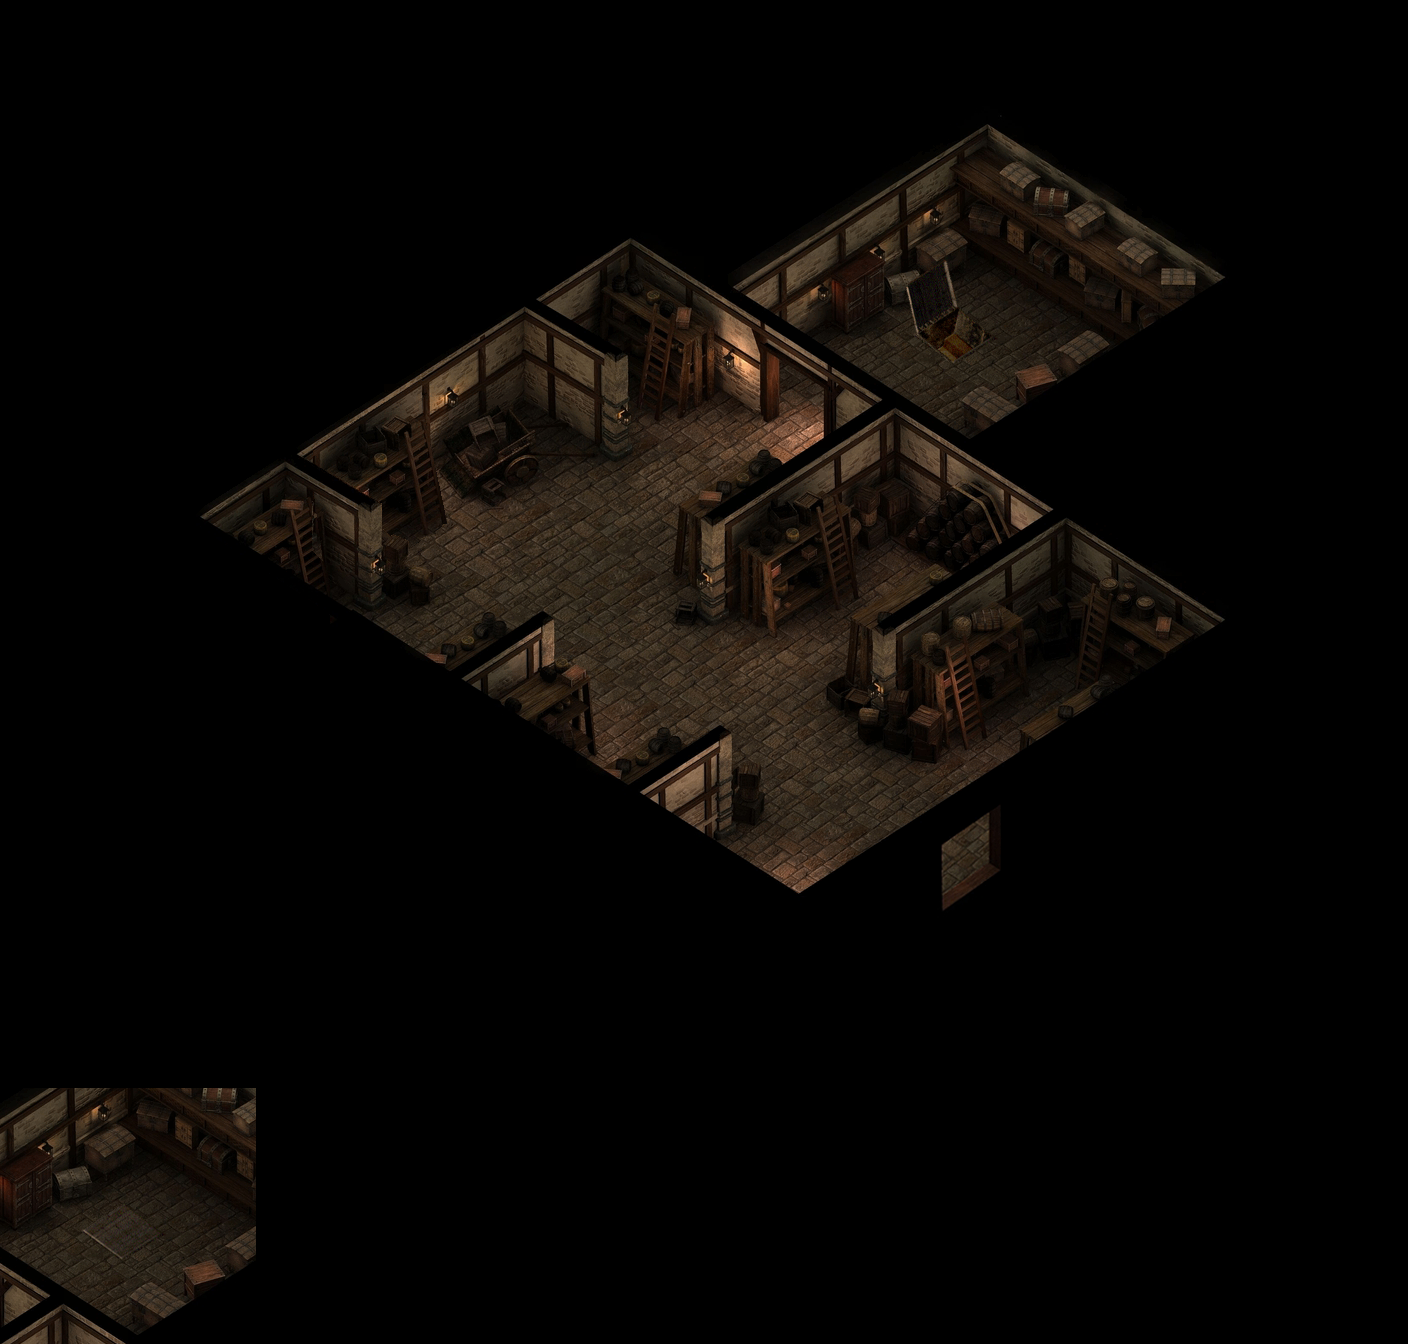
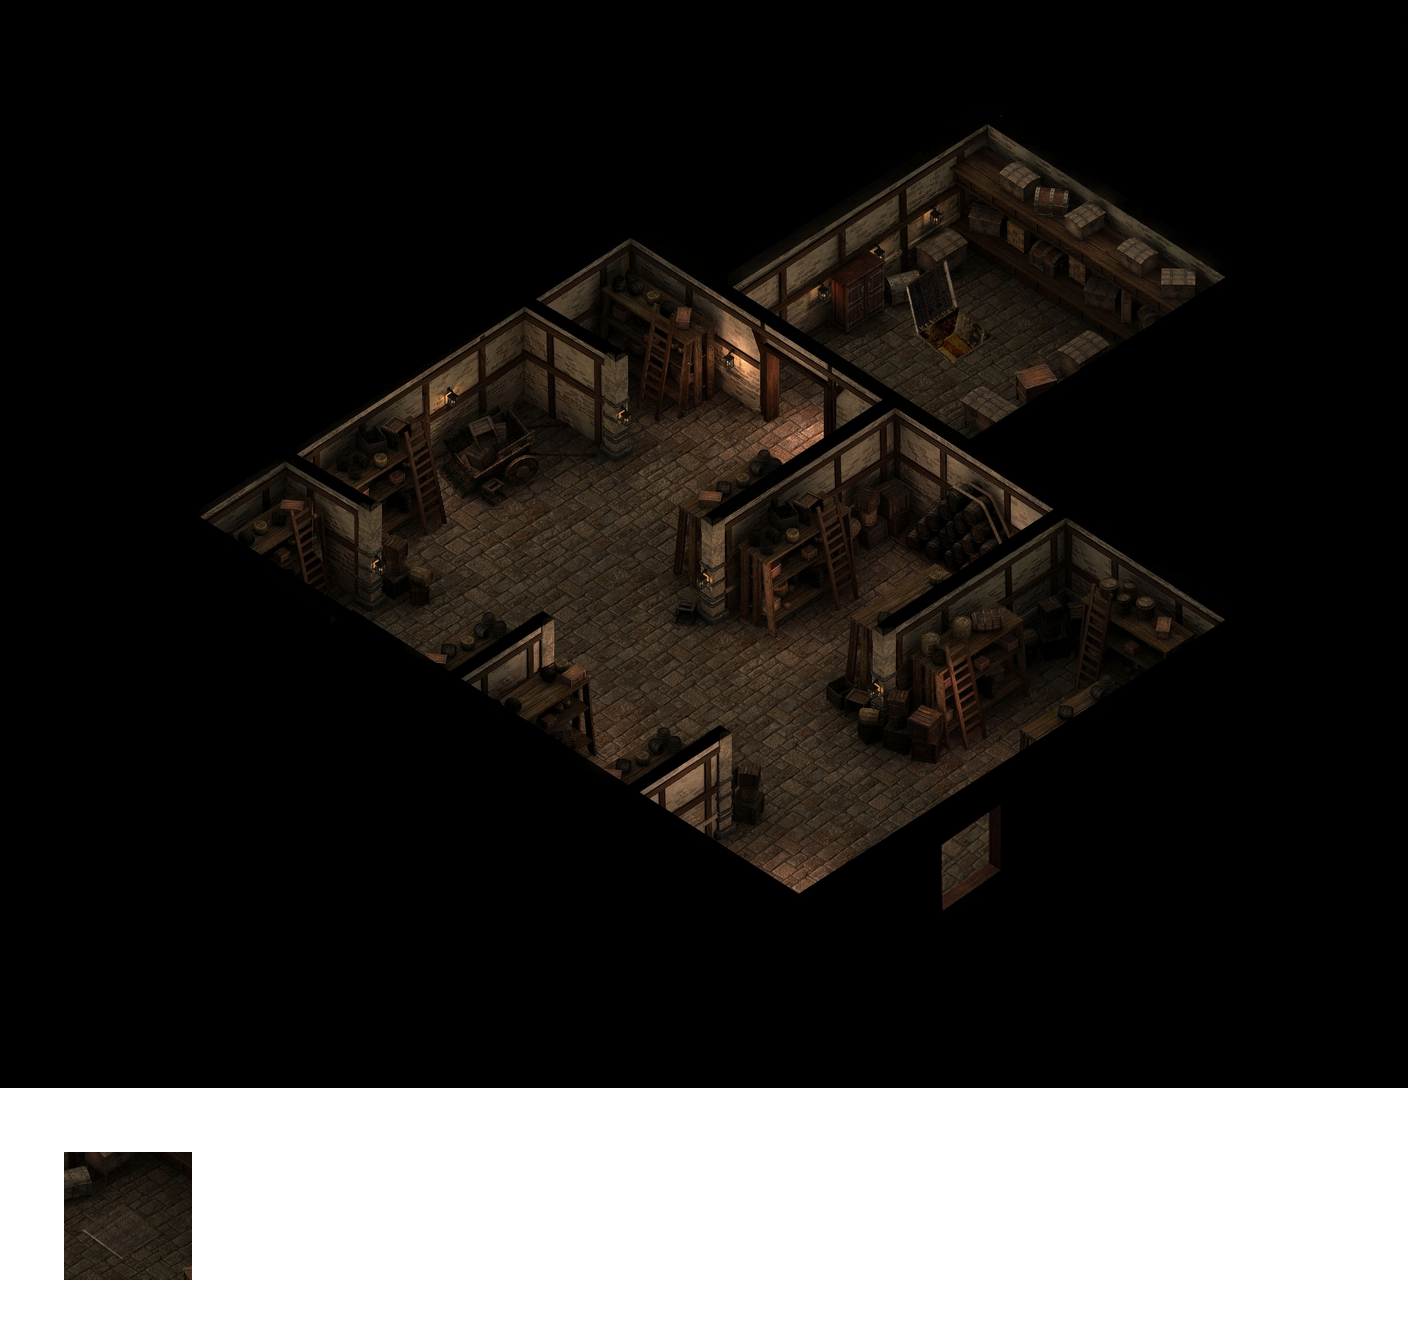
no need to copy part of image, transparrency do the work

Changed region(s): [[0.0, 0.8125, 1.0, 1.0]]

diff --git a/convert_wed_png_for_ee.py b/convert_wed_png_for_ee.py
@@ -175,7 +175,7 @@ if __name__ == '__main__':
 
     for group in groups_info:
         group_rect_offset = (group["offset_to_insert"][0] * 64, (overlay_h + group["offset_to_insert"][1]) * 64)
-        output_image.paste(im.crop((group["rect"])), group_rect_offset)
+        # output_image.paste(im.crop((group["rect"])), group_rect_offset)
         for first_tile_coord in group["elements"]:
             first_tile = first_tile_coord[1] * overlay_w + first_tile_coord[0]
             second_tile = tile_map[first_tile][0]
